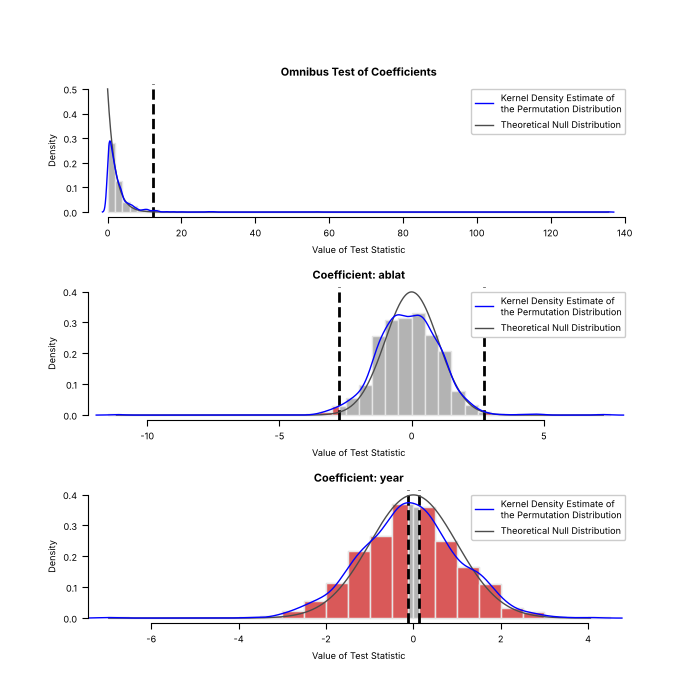
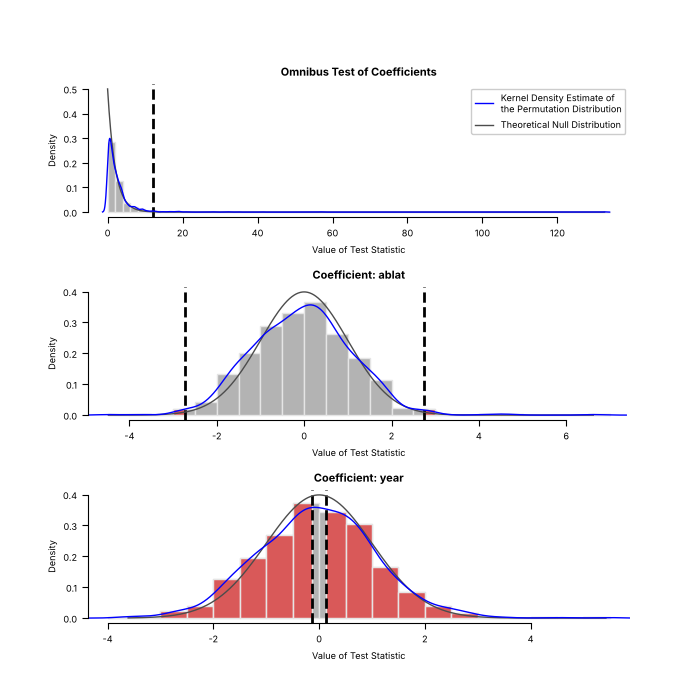
Match metafor's permutation and VIF simulation plots
The gallery seeded metafopy with permutest(seed=1234) and vif(seed=1234) while the R script used set.seed(1234), so the permutations differed and the x axes with them. vif(sim=) on rma_uni models now shuffles like metafor (R's generator, seed + l per iteration, data variables for formula models). plot_permutest draws the legend in the first panel only, as metafor does.

Claude-Session: https://claude.ai/code/session_017JPVMnnzsXFTks3gUryFjD

diff --git a/src/metafopy/methods/vif.py b/src/metafopy/methods/vif.py
@@ -16,6 +16,7 @@ import concurrent.futures
 import dataclasses
 import functools
 import math
+import re
 import typing
 import warnings
 
@@ -25,7 +26,9 @@ import pandas
 
 import metafopy.core.linalg
 import metafopy.core.parallel
+import metafopy.core.rng
 import metafopy.errors
+import metafopy.formula
 import metafopy.methods.blup
 import metafopy.models.rma_uni
 import metafopy.models.tau2
@@ -225,9 +228,11 @@ def vif_rma_uni(
     ``btt=list(2, 3:4, 5)``). Without ``btt`` each coefficient except the
     intercept gets its own VIF. ``sim=True`` (1000 iterations) or ``sim=n``
     refits the model ``n`` times with independently permuted model-matrix
-    columns; ``seed`` seeds :func:`numpy.random.default_rng`, from which each
-    iteration gets its own spawned generator, so results do not depend on
-    ``parallel``. ``parallel`` (``'snow'``/``'multicore'``) runs the
+    columns; the permutations are those of metafor: R's generator shuffles each
+    column (or, for a model given as a formula, each variable of the data) in
+    turn, seeded with ``seed + l`` in iteration ``l`` when ``seed`` is given and
+    otherwise drawn from the stream of :func:`metafopy.set_seed`.
+    ``parallel`` (``'snow'``/``'multicore'``) runs the
     iterations in a process pool of ``ncpus`` workers, or on the
     :class:`concurrent.futures.Executor` given as ``cl``.
 
@@ -290,9 +295,15 @@ def vif_rma_uni(
     vifs = numpy.array([e.vif for e in entries])
     # simulating is pointless when every (G)VIF is already 1
     if n_sim >= 2 and not numpy.all(vifs[~numpy.isnan(vifs)] == 1):
-        rngs = numpy.random.default_rng(seed).spawn(n_sim)
+        seeds: list[int | None]
+        if seed is not None:
+            seeds = [seed + i for i in range(1, n_sim + 1)]
+        elif parallel == 'no':
+            seeds = [None] * n_sim  # each iteration continues the global stream, as in R
+        else:
+            seeds = [int(metafopy.core.rng.get_rng().unif_index(2**31 - 1)) for _ in range(n_sim)]
         one = functools.partial(vif_sim_one, res, tuple(groups), reestimate)
-        rows = metafopy.core.parallel.map_sims(one, rngs, parallel=parallel, ncpus=ncpus, cl=cl, progbar=progbar)
+        rows = metafopy.core.parallel.map_sims(one, seeds, parallel=parallel, ncpus=ncpus, cl=cl, progbar=progbar)
         sims = numpy.vstack(rows)
         with numpy.errstate(invalid='ignore', divide='ignore'):
             ok = ~numpy.isnan(sims)
@@ -306,7 +317,7 @@ def vif_rma_uni(
         table=tab,
         test=res.test if tab is not None else None,
         sim=sims,
-        sim_type='X' if sims is not None else None,
+        sim_type=('data' if res.data.formula_mods is not None else 'X') if sims is not None else None,
         prop=prop,
     )
 
@@ -374,11 +385,33 @@ def refit(res: metafopy.models.rma_uni.RMAResult, X: FloatArray) -> metafopy.mod
         )
 
 
-def vif_sim_one(res: metafopy.models.rma_uni.RMAResult, groups: tuple[tuple[int, ...], ...], reestimate: bool, rng: numpy.random.Generator) -> FloatArray:
-    """(G)VIFs after permuting each column of the model matrix independently."""
+def permuted_design(res: metafopy.models.rma_uni.RMAResult, rng: metafopy.core.rng.RRandom) -> FloatArray:
+    """The model matrix after shuffling, as metafor's ``.compvifsim`` does.
+
+    A model given as a formula has the variables of the data it uses shuffled, in order of appearance in the formula, and the model matrix is
+    rebuilt from them (``type="data"``); otherwise every column of the model matrix is shuffled (``type="X"``). Each shuffle is R's ``sample()``.
+    """
+    md = res.data
+    k = res.k
+    if md.formula_mods is not None and md.data is not None:
+        formula = md.formula_mods
+        found = [(m.start(), c) for c in md.data.columns if (m := re.search(rf'(?<![\w.]){re.escape(str(c))}(?![\w.])', formula)) is not None]
+        frame = md.data.loc[md.keep, [c for _, c in sorted(found, key=lambda t: t[0])]].reset_index(drop=True)
+        if len(frame) == k and not frame.empty:
+            shuffled = frame.apply(lambda col: col.iloc[rng.sample_int(k) - 1].reset_index(drop=True))
+            X, _, _ = metafopy.formula.design_matrix(formula, shuffled)
+            if X.shape == res.X.shape:
+                return X
     X = res.X.copy()
     for j in range(X.shape[1]):
-        X[:, j] = rng.permutation(X[:, j])
+        X[:, j] = X[rng.sample_int(k) - 1, j]
+    return X
+
+
+def vif_sim_one(res: metafopy.models.rma_uni.RMAResult, groups: tuple[tuple[int, ...], ...], reestimate: bool, seed: int | None) -> FloatArray:
+    """One iteration of metafor's ``.compvifsim``: (G)VIFs after permuting the model matrix (``seed=None`` continues the global stream)."""
+    rng = metafopy.core.rng.get_rng() if seed is None else metafopy.core.rng.RRandom(seed)
+    X = permuted_design(res, rng)
     drop = metafopy.core.linalg.drop_redundant(X)
     if drop.any():
         # a set containing a coefficient that became redundant is infinitely inflated

diff --git a/src/tests/test_permutest_vif_plots.py b/src/tests/test_permutest_vif_plots.py
@@ -58,6 +58,25 @@ def vifs(fit: metafopy.RMAResult) -> metafopy.methods.vif.VIFResult:
     return dataclasses.replace(result, vif=(entry,), sim=sim)
 
 
+def test_seeded_permutations_are_those_of_r(fit: metafopy.RMAResult) -> None:
+    # R: set.seed(1234); permutest(res, iter = 500)
+    ref = REF['permutest']
+    metafopy.set_seed(1234)
+    result = metafopy.permutest(fit, iter=500)
+    assert isinstance(result, metafopy.methods.permutest.PermutestResult)
+    for name in ref['coef_names']:
+        numpy.testing.assert_allclose(result.zval_perm[name], ref['zval_perm'][name], rtol=1e-8, atol=1e-8)
+
+
+def test_seeded_simulated_vifs_are_those_of_r(fit: metafopy.RMAResult) -> None:
+    # R: set.seed(4321); vif(res, btt = 2, sim = TRUE); the model comes from a formula, so the variables of the data are shuffled
+    metafopy.set_seed(4321)
+    result = metafopy.vif(fit, btt=1, sim=True, progbar=False)
+    assert result.sim is not None
+    assert result.sim_type == 'data'
+    numpy.testing.assert_allclose(result.sim[:, 0], REF['vif']['sim'][0], rtol=1e-6, atol=1e-8)
+
+
 @pytest.fixture
 def ax() -> collections.abc.Iterator[matplotlib.axes.Axes]:
     fig, axes = matplotlib.pyplot.subplots(figsize=(7, 7))
@@ -141,7 +160,7 @@ def test_plot_permutest_default_draws_one_panel_per_coefficient(perm: metafopy.m
     assert out.names == ('QM', 'ablat', 'year')
     assert len(out.axes) == 3
     assert [a.get_title() for a in out.axes] == ['Omnibus Test of Coefficients', 'Coefficient: ablat', 'Coefficient: year']
-    assert all(a.get_legend() is not None for a in out.axes)
+    assert [a.get_legend() is not None for a in out.axes] == [True, False, False]
 
 
 def test_plot_permutest_rejects_bad_arguments(perm: metafopy.methods.permutest.PermutestResult, ax: matplotlib.axes.Axes) -> None:

diff --git a/src/metafopy/metadata.py b/src/metafopy/metadata.py
@@ -90,7 +90,7 @@ class MetaData:
     Attributes hold only the rows used in fitting (``k`` of them). ``keep``
     maps them back to the ``k_all`` rows that were supplied, so that results
     can be reported on the original rows (metafor's ``na.action="na.pass"``).
-    ``na_rows`` flags the subsetted rows dropped for missing values, and ``labels_all``,
+    ``na_rows`` flags the subsetted rows dropped for missing values, ``formula_mods`` is the formula of ``mods`` (if it was one), and ``labels_all``,
     ``yi_all``, ``vi_all`` and ``X_all`` hold the label, estimate, variance and design row of every supplied row
     (``forest`` shows the flagged rows with ``na_action='pass'``).
     """
@@ -107,6 +107,7 @@ class MetaData:
     data: pandas.DataFrame | None = dataclasses.field(default=None, repr=False)
     labels_all: tuple[str, ...] | None = dataclasses.field(default=None, repr=False)
     na_rows: BoolArray | None = dataclasses.field(default=None, repr=False)
+    formula_mods: str | None = dataclasses.field(default=None, repr=False)
     yi_all: FloatArray | None = dataclasses.field(default=None, repr=False)
     vi_all: FloatArray | None = dataclasses.field(default=None, repr=False)
     X_all: FloatArray | None = dataclasses.field(default=None, repr=False)
@@ -214,6 +215,7 @@ class MetaData:
             data=data,
             labels_all=labels,
             na_rows=na_rows,
+            formula_mods=mods if isinstance(mods, str) and data is not None else None,
             yi_all=y,
             vi_all=v,
             X_all=X,

diff --git a/src/metafopy/plot/permutest.py b/src/metafopy/plot/permutest.py
@@ -84,7 +84,7 @@ def plot_permutest(
     extreme permutations from the histogram, and ``lwd`` gives the widths of the dashed line at the observed value, of the theoretical
     null distribution (the density of the reference ``z``, ``t``, chi-square or ``F`` distribution), of the kernel density estimate of
     the permutation distribution (``adjust`` is its bandwidth adjustment) and of the vertical line at zero; a width of 0 leaves the element out.
-    ``alternative``, ``p2defn`` and ``stat`` default to those of the test. ``legend`` (``True`` or a location) labels the two curves.
+    ``alternative``, ``p2defn`` and ``stat`` default to those of the test. ``legend`` (``True`` or a location) labels the two curves in the first panel.
 
     Returns a :class:`PlotPermutestResult` with the axes of the panels.
 
@@ -125,10 +125,13 @@ def plot_permutest(
     ddf = x.ddf
     drawn, context = metafopy.plot.histplot.panels(axx, n_panels)
     titles: list[str] = []
+    legend_pending = [bool(legend)]
 
     def legend_for(panel: matplotlib.axes.Axes) -> None:
-        if not legend or not any(w > 0 for w in widths[1:3]):
+        # metafor's addlegend() sets legend to FALSE once drawn, so only the first panel has a legend
+        if not legend_pending[0] or not any(w > 0 for w in widths[1:3]):
             return
+        legend_pending[0] = False
         entries = [
             ('Kernel Density Estimate of\nthe Permutation Distribution', col_density_, widths[2]),
             ('Theoretical Null Distribution', col_ref_, widths[1]),

diff --git a/src/tests/test_blup_ranef_vif.py b/src/tests/test_blup_ranef_vif.py
@@ -242,7 +242,7 @@ def test_format_btt() -> None:
     assert metafopy.methods.vif.format_btt([2, 4, 5]) == '2,4:5'
 
 
-# -- simulation (structural only: R's random draws cannot be reproduced) -------------------
+# -- simulation (structural only; the draws against R are in test_permutest_vif_plots.py) -------------------
 
 
 def test_vif_sim_structure(fits: dict[str, typing.Any]) -> None:
@@ -250,7 +250,7 @@ def test_vif_sim_structure(fits: dict[str, typing.Any]) -> None:
     assert out.sim is not None
     assert out.prop is not None
     assert out.sim.shape == (25, 4)
-    assert out.sim_type == 'X'
+    assert out.sim_type == ('data' if fits['bcg'].data.formula_mods is not None else 'X')
     assert numpy.all((out.prop >= 0) & (out.prop <= 1))
     # each prop is the share of simulated values the observed (G)VIF reaches
     for j, e in enumerate(out.vif):

diff --git a/docs/guide/gallery.md b/docs/guide/gallery.md
@@ -49,6 +49,7 @@ from metafopy import (
     regtest,
     rma,
     rma_mv,
+    set_seed,
     trimfill,
     vcalc,
     vif,
@@ -796,7 +797,8 @@ Source: <https://wviechtb.github.io/metafor/reference/plot.permutest.rma.uni.htm
 
 ```python
 res_p = rma('yi', 'vi', mods='~ ablat + year', data=dat)
-perm = permutest(res_p, iter=1000, seed=1234)
+set_seed(1234)
+perm = permutest(res_p, iter=1000)
 fig, ax = matplotlib.pyplot.subplots(figsize=(7, 7))
 plot_permutest(perm, QM=True, lwd=(2, 1, 1, 0), legend=True, ax=ax)
 fig.savefig('permutest.png', dpi=DPI)
@@ -806,7 +808,8 @@ fig.savefig('permutest.png', dpi=DPI)
 |----------|-----------|
 | ![permutation distributions, metafopy](../images/gallery/py/permutest.png) | ![permutation distributions, R](../images/gallery/r/permutest.png) |
 
-The permutations are random, so the histograms of the two figures agree in shape and not bar for bar.
+The generator is seeded with `set_seed(1234)`, like R's `set.seed(1234)`, so both figures draw the same permutations and the histograms, axes and densities agree.
+As in metafor, the legend appears in the first panel only.
 
 ### Simulated variance inflation factors
 
@@ -814,7 +817,8 @@ Source: <https://wviechtb.github.io/metafor/reference/plot.vif.rma.html> (the he
 
 ```python
 fig, ax = matplotlib.pyplot.subplots(figsize=(7, 7))
-plot_vif(vif(res_p, btt=1, sim=500, progbar=False, seed=1234), ax=ax)
+set_seed(1234)
+plot_vif(vif(res_p, btt=1, sim=1000, progbar=False), ax=ax)
 fig.savefig('vif.png', dpi=DPI)
 ```
 
@@ -822,7 +826,7 @@ fig.savefig('vif.png', dpi=DPI)
 |----------|-----------|
 | ![simulated VIFs, metafopy](../images/gallery/py/vif.png) | ![simulated VIFs, R](../images/gallery/r/vif.png) |
 
-The simulated values are random, so the histograms agree in shape and not bar for bar.
+The generator is seeded with `set_seed(1234)`, like R's `set.seed(1234)`, so both figures show the same 1000 simulated values.
 
 ## Plots of multilevel models
 

diff --git a/CHANGELOG.md b/CHANGELOG.md
@@ -2,6 +2,8 @@
 
 ## Unreleased (1.0 candidate)
 
+- `vif(sim=)` of `rma_uni` models shuffles like metafor with R's generator (`seed + l` in iteration `l`, or the stream of `set_seed` without `seed`), shuffling the variables of the data for a model given as a formula (`sim_type='data'`), so `set_seed(s)` gives the simulated VIFs of R's `set.seed(s)`. The gallery figure uses `sim=1000`, the 1000 iterations R's `sim=TRUE` runs.
+- `plot_permutest(legend=...)` draws the legend in the first panel only, as metafor does. The gallery figure of the permutation distributions is seeded with `set_seed(1234)` like the R script, so its axes and histograms now match R's.
 - Add the metafor plots that were missing: `regplot` (meta-analytic scatterplot), `forest()` of a `cumul` result (`forest_cumul`), `plot_cumul` (plot of cumulative results), `llplot`, `plot_permutest` and `plot_vif`. Each is checked against the geometry R records. `cumul` results carry `measure`, `level` and `slab_null`. The gallery shows the six next to metafor's figures.
 - Add the BMJ, RevMan and superscript forest plot styles to the gallery, drawn from `forest()` with extra annotations as on the metafor pages. `forest()` of a fitted model takes `na_action='pass'` (metafor's `options(na.action='na.pass')`) to keep the studies with missing values as rows of the plot, which the RevMan style needs; `fail` raises an error if there are any.
 - Add a plot gallery to the user manual (`docs/guide/gallery.md`) with the plots of the metafor gallery drawn by metafopy next to the R figures (`bin/gallery.py`, `src/tests/r/gallery.R`), and the datasets `dat.damico2009` and `dat.pignon2000`.
